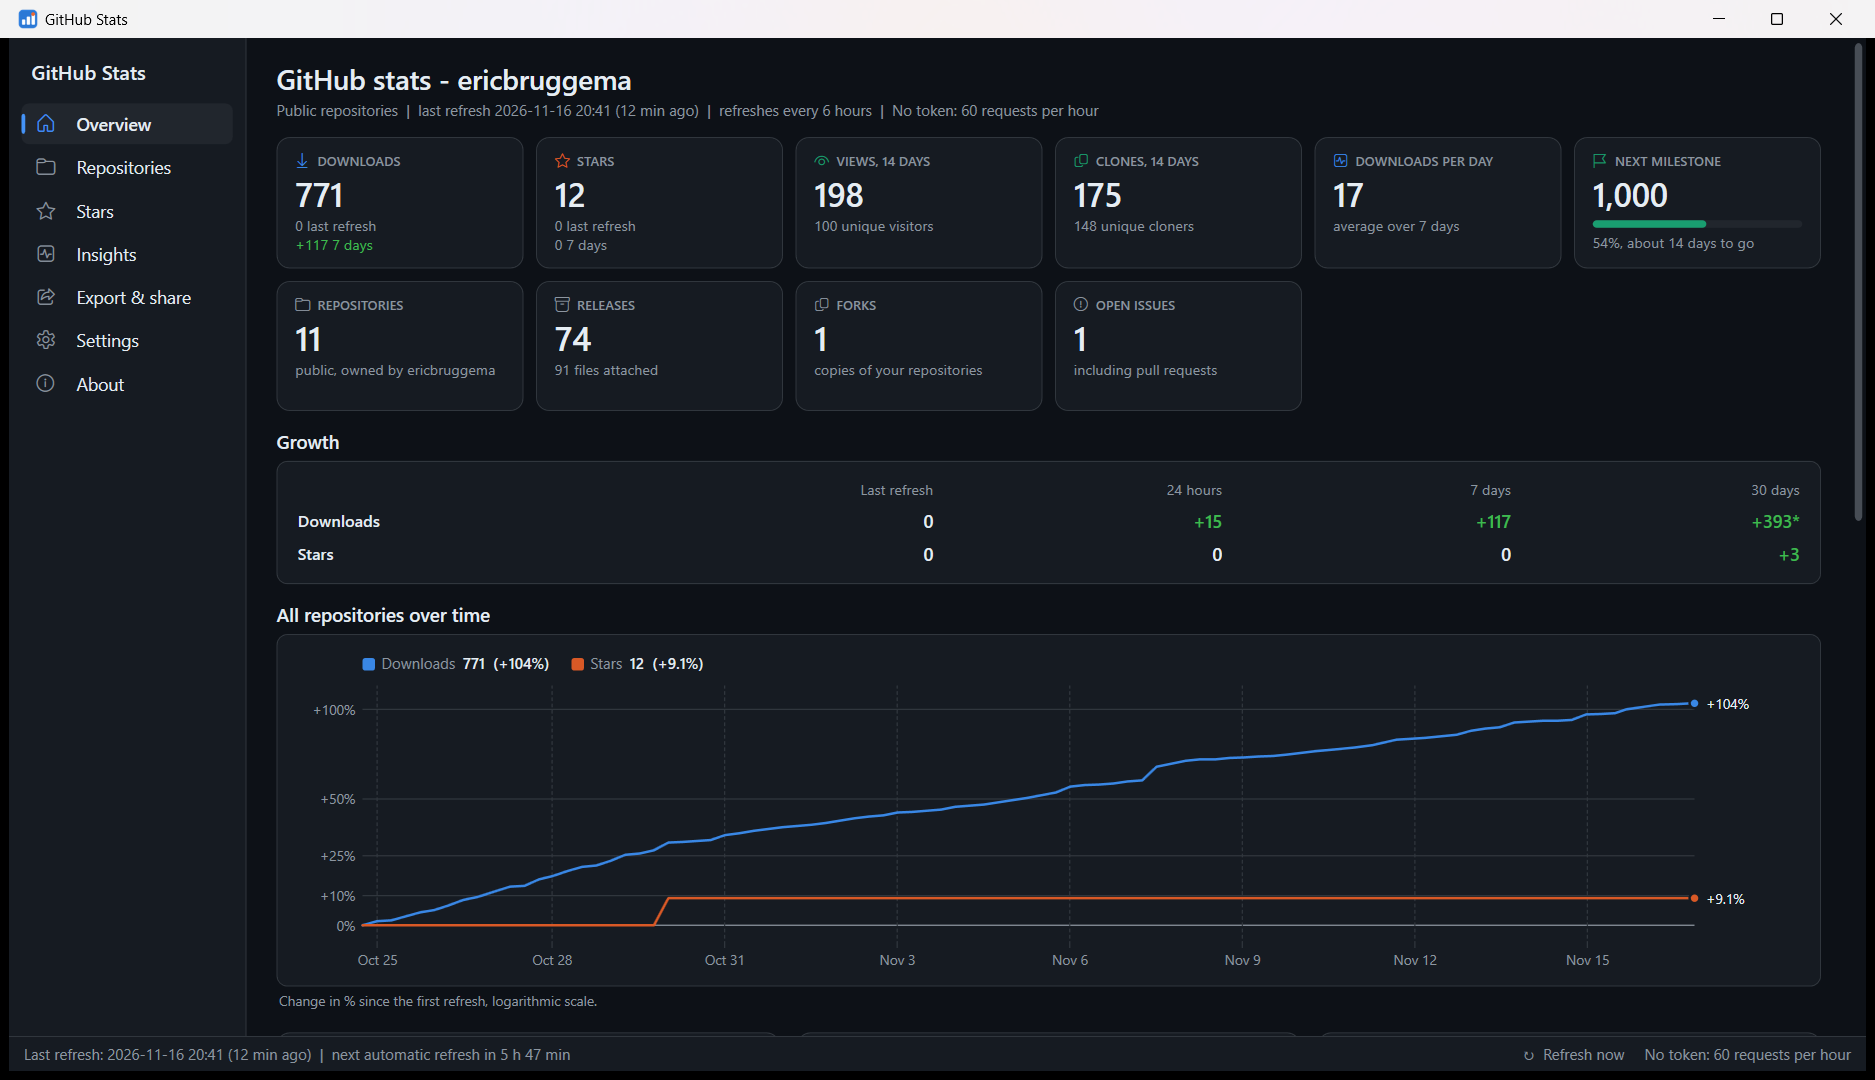
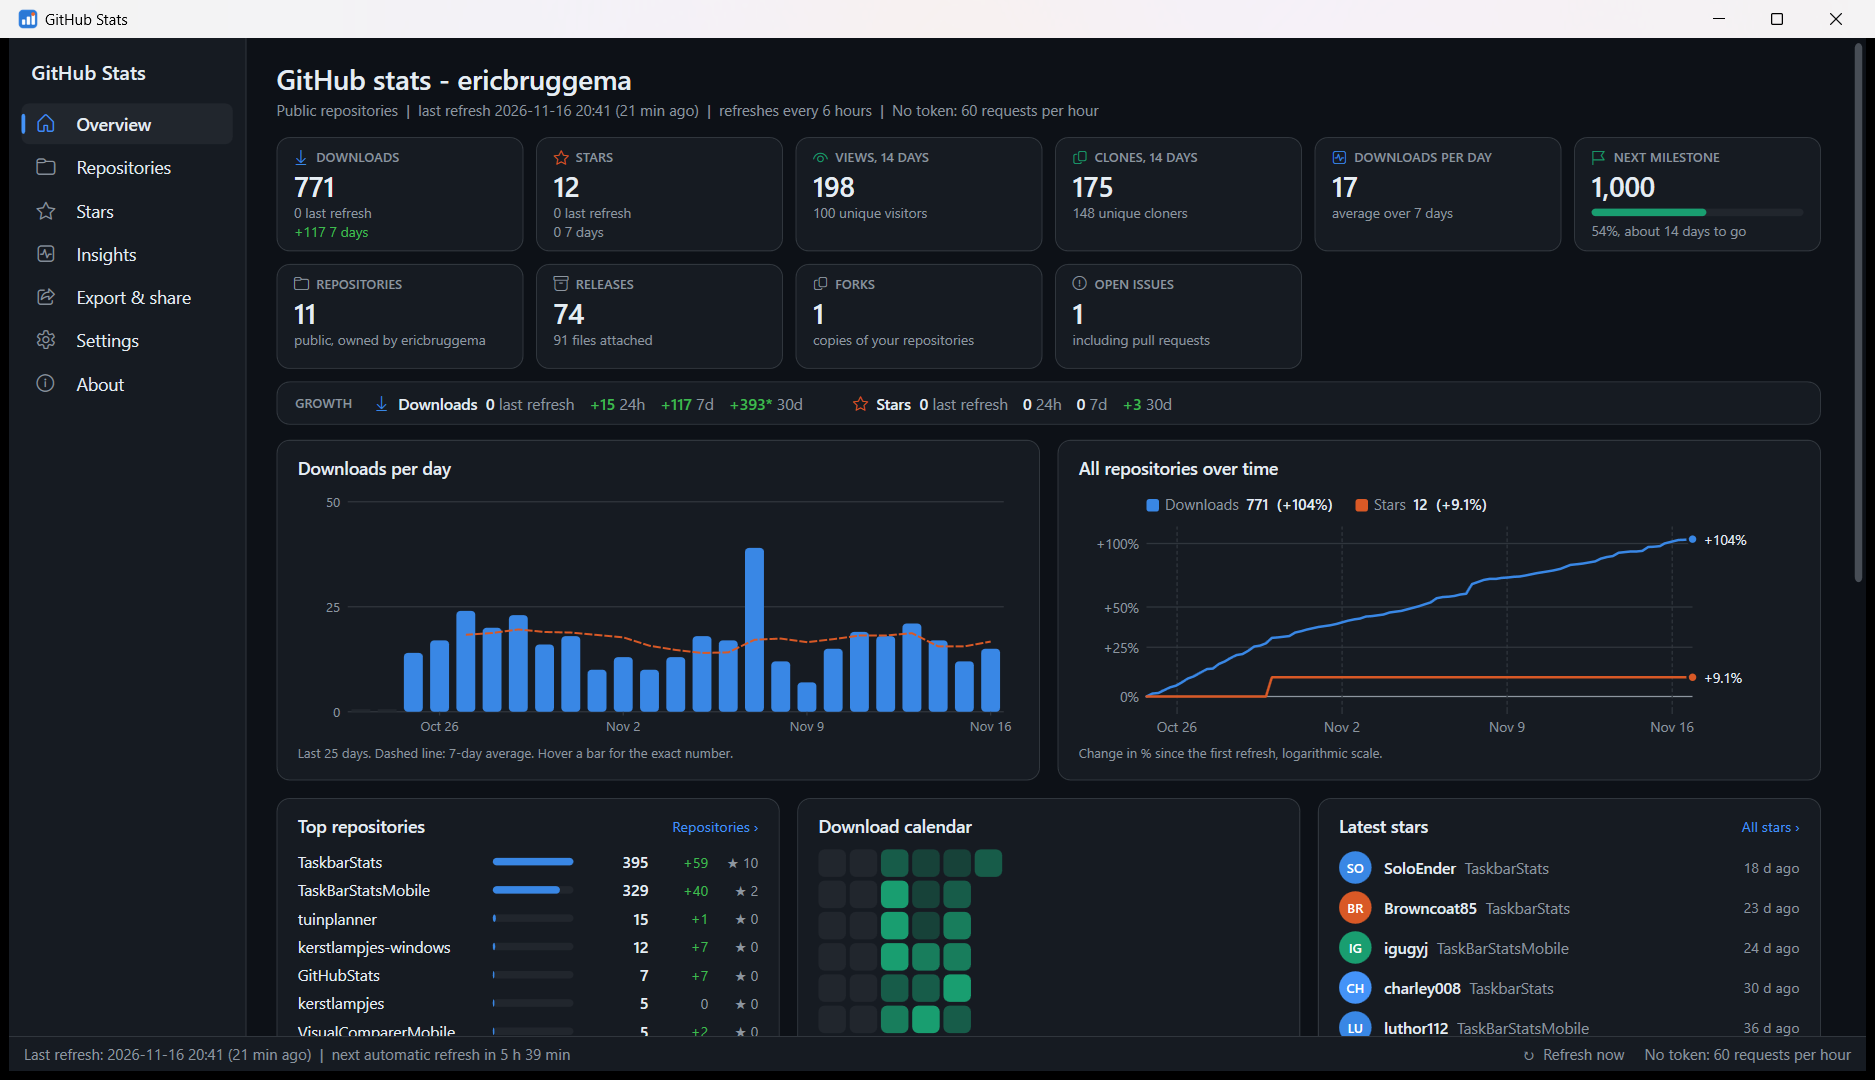
Downloads per day chart, compact overview (2.4.1)
Bar chart of daily downloads with 7-day average, hover values and dates,
next to a smaller cumulative chart; smaller cards; growth as one slim line.
README screenshots refreshed.

diff --git a/UI/OverviewView.cs b/UI/OverviewView.cs
@@ -14,7 +14,8 @@ namespace GitHubStats;
 internal sealed class OverviewView : View
 {
     private readonly StackPanel _root;
-    private readonly ChartControl _chart = new() { Height = 260 };
+    private readonly ChartControl _chart = new() { Height = 200 };
+    private readonly DailyBarChart _daily = new() { Height = 200 };
 
     public OverviewView()
     {
@@ -52,26 +53,26 @@ internal sealed class OverviewView : View
         kpis.Children.Add(Kpi("", "Muted", "Open issues", Fmt.N(db.Totals.OpenIssues), ("including pull requests", 0), null));
         _root.Children.Add(kpis);
 
-        // ---- growth table
-        _root.Children.Add(Ui.Heading("Growth"));
-        _root.Children.Add(Ui.Box(Growth(db), 8, new Thickness(16, 10, 16, 10)));
+        // ---- growth: one slim strip
+        _root.Children.Add(GrowthStrip(db));
 
-        // ---- the big chart
-        _root.Children.Add(Ui.Heading("All repositories over time"));
+        // ---- charts side by side: downloads per day, and the totals over time
+        var snaps = app.Data.Snapshots;
+        double histDays = snaps.Count > 0 ? (Clock.Now() - snaps[0].T) / 86400.0 : 0;
+        int nDays = Math.Max(14, Math.Min(60, (int)Math.Ceiling(histDays) + 1));
+        _daily.SetDays(WidgetStyles.DailyDownloads(nDays), "downloads");
+        if (_daily.Parent is Border od) od.Child = null;
         _chart.SetModel(db.All);
-        if (_chart.Parent is Border old) old.Child = null;
-        _root.Children.Add(Ui.Box(_chart));
-        if (db.All != null)
-        {
-            var cap = Ui.Text(db.All.Caption, 11, "Muted", false, true);
-            cap.Margin = new Thickness(2, 4, 0, 0);
-            _root.Children.Add(cap);
-        }
+        if (_chart.Parent is Border oc) oc.Child = null;
+        var charts = new MasonryPanel { MinColumnWidth = 430, Gap = 14, RowByRow = true, Margin = new Thickness(0, 12, 0, 0) };
+        charts.Children.Add(Panel("Downloads per day", ChartBody(_daily, "Last " + nDays + " days. Dashed line: 7-day average. Hover a bar for the exact number."), null, null));
+        charts.Children.Add(Panel("All repositories over time", ChartBody(_chart, db.All?.Caption ?? ""), null, null));
+        _root.Children.Add(charts);
 
         // ---- detail panels, as many columns as fit
-        var panels = new MasonryPanel { MinColumnWidth = 380, Gap = 14, Margin = new Thickness(0, 18, 0, 0) };
+        var panels = new MasonryPanel { MinColumnWidth = 380, Gap = 14, Margin = new Thickness(0, 14, 0, 0) };
         panels.Children.Add(Panel("Top repositories", TopRepos(db), "Repositories", "repos"));
-        panels.Children.Add(Panel("Downloads per day", Heat(), null, null));
+        panels.Children.Add(Panel("Download calendar", Heat(), null, null));
         panels.Children.Add(Panel("Latest stars", LatestStars(db), "All stars", "stars"));
         panels.Children.Add(Panel("Traffic, last 14 days", TrafficPanel(db), null, null));
         panels.Children.Add(Panel("Latest releases", LatestReleases(), null, null));
@@ -100,16 +101,16 @@ internal sealed class OverviewView : View
         l.FontWeight = FontWeights.SemiBold;
         head.Children.Add(l);
         sp.Children.Add(head);
-        var v = Ui.Text(value, 26, "Text", true);
-        v.Margin = new Thickness(0, 2, 0, 0);
+        var v = Ui.Text(value, 22, "Text", true);
+        v.Margin = new Thickness(0, 1, 0, 0);
         sp.Children.Add(v);
         foreach (var line in new[] { line1, line2 })
         {
             if (line == null) continue;
-            sp.Children.Add(Ui.Text(line.Value.Text, 11.5, line.Value.Sign > 0 ? "Up" : line.Value.Sign < 0 ? "Down" : "Muted", false, true));
+            sp.Children.Add(Ui.Text(line.Value.Text, 11, line.Value.Sign > 0 ? "Up" : line.Value.Sign < 0 ? "Down" : "Muted", false, true));
         }
-        var b = Ui.Box(sp, 10, new Thickness(14, 11, 14, 11));
-        b.MinHeight = 104;
+        var b = Ui.Box(sp, 10, new Thickness(13, 8, 13, 8));
+        b.MinHeight = 84;
         return b;
     }
 
@@ -126,8 +127,8 @@ internal sealed class OverviewView : View
         l.FontWeight = FontWeights.SemiBold;
         head.Children.Add(l);
         sp.Children.Add(head);
-        var v = Ui.Text(next == 0 ? "All reached" : Fmt.N(next), 26, "Text", true);
-        v.Margin = new Thickness(0, 2, 0, 0);
+        var v = Ui.Text(next == 0 ? "All reached" : Fmt.N(next), 22, "Text", true);
+        v.Margin = new Thickness(0, 1, 0, 0);
         sp.Children.Add(v);
         sp.Children.Add(Bar(p, "S2", 6, new Thickness(0, 4, 0, 4)));
         string eta = "";
@@ -136,40 +137,64 @@ internal sealed class OverviewView : View
             double days = (next - total) / pd;
             eta = ", about " + (days < 1.5 ? "a day" : days < 60 ? Math.Round(days) + " days" : Math.Round(days / 30) + " months") + " to go";
         }
-        sp.Children.Add(Ui.Text(next == 0 ? "add more in Settings" : Math.Round(p * 100) + "%" + eta, 11.5, "Muted", false, true));
-        var b = Ui.Box(sp, 10, new Thickness(14, 11, 14, 11));
-        b.MinHeight = 104;
+        sp.Children.Add(Ui.Text(next == 0 ? "add more in Settings" : Math.Round(p * 100) + "%" + eta, 11, "Muted", false, true));
+        var b = Ui.Box(sp, 10, new Thickness(13, 8, 13, 8));
+        b.MinHeight = 84;
         return b;
     }
 
-    private static FrameworkElement Growth(Dashboard db)
+    /// <summary>Growth in one slim line: downloads and stars over the last refresh, 24 hours, 7 and 30 days.</summary>
+    private static FrameworkElement GrowthStrip(Dashboard db)
     {
-        var g = new Grid();
-        g.ColumnDefinitions.Add(new ColumnDefinition { Width = new GridLength(1.2, GridUnitType.Star) });
-        for (int i = 0; i < 4; i++) g.ColumnDefinitions.Add(new ColumnDefinition { Width = new GridLength(1, GridUnitType.Star) });
-        string[] heads = { "", "Last refresh", "24 hours", "7 days", "30 days" };
-        for (int i = 0; i < heads.Length; i++) Cell(g, Ui.Text(heads[i], 11.5, "Muted"), 0, i, i > 0);
-        var rows = new[]
+        var wrap = new WrapPanel();
+        var head = Ui.Text("GROWTH", 10.5, "Muted");
+        head.FontWeight = FontWeights.SemiBold;
+        head.Margin = new Thickness(0, 0, 18, 0);
+        wrap.Children.Add(head);
+        void Group(string glyph, string brush, string name, long? last, WinDelta[] win)
         {
-            ("Downloads", db.DownloadsDelta, db.DownloadsWin),
-            ("Stars", db.StarsDelta, db.StarsWin),
-        };
-        int r = 1;
-        foreach (var (name, last, win) in rows)
-        {
-            Cell(g, Ui.Text(name, 13, "Text", true), r, 0, false);
-            Cell(g, Val(last, false), r, 1, true);
-            for (int k = 0; k < 3; k++) Cell(g, Val(win[k].Value, win[k].Partial), r, 2 + k, true);
-            r++;
+            var g = new StackPanel { Orientation = Orientation.Horizontal, Margin = new Thickness(0, 0, 28, 0) };
+            g.Children.Add(Glyph(glyph, brush, 12));
+            g.Children.Add(Ui.Text("  " + name + "  ", 12.5, "Text", true));
+            void Item(string label, long? v, bool partial)
+            {
+                var t = new TextBlock { FontSize = 12.5, Margin = new Thickness(0, 0, 12, 0), VerticalAlignment = VerticalAlignment.Center };
+                var val = new System.Windows.Documents.Run(v == null ? "-" : Fmt.DeltaText(v.Value) + (partial ? "*" : "")) { FontWeight = FontWeights.SemiBold };
+                val.SetResourceReference(System.Windows.Documents.TextElement.ForegroundProperty, v > 0 ? "Up" : v < 0 ? "Down" : "Text");
+                var lab = new System.Windows.Documents.Run(" " + label);
+                lab.SetResourceReference(System.Windows.Documents.TextElement.ForegroundProperty, "Muted");
+                t.Inlines.Add(val);
+                t.Inlines.Add(lab);
+                if (partial) t.ToolTip = "* Not enough history yet for the whole period: since the first refresh.";
+                g.Children.Add(t);
+            }
+            Item("last refresh", last, false);
+            Item("24h", win[0].Value, win[0].Partial);
+            Item("7d", win[1].Value, win[1].Partial);
+            Item("30d", win[2].Value, win[2].Partial);
+            wrap.Children.Add(g);
         }
-        return g;
+        Group("", "S0", "Downloads", db.DownloadsDelta, db.DownloadsWin);
+        Group("", "S1", "Stars", db.StarsDelta, db.StarsWin);
+        var b = Ui.Box(wrap, 10, new Thickness(14, 8, 14, 8));
+        b.Margin = new Thickness(0, 10, 0, 0);
+        return b;
+    }
 
-        static TextBlock Val(long? v, bool partial)
+    private static FrameworkElement ChartBody(FrameworkElement chart, string caption)
+    {
+        // the chart controls are reused on every update: detach them from the previous page first
+        if (chart.Parent is Panel old) old.Children.Remove(chart);
+        else if (chart.Parent is Border ob) ob.Child = null;
+        var sp = new StackPanel();
+        sp.Children.Add(chart);
+        if (caption.Length > 0)
         {
-            var t = Ui.Text(v == null ? "-" : Fmt.DeltaText(v.Value) + (partial ? "*" : ""), 14, v > 0 ? "Up" : v < 0 ? "Down" : "Text", true);
-            if (partial) t.ToolTip = "* Not enough history yet for the whole period: since the first refresh.";
-            return t;
+            var c = Ui.Text(caption, 10.5, "Muted", false, true);
+            c.Margin = new Thickness(0, 4, 0, 0);
+            sp.Children.Add(c);
         }
+        return sp;
     }
 
     private static void Cell(Grid g, FrameworkElement e, int row, int col, bool right)

diff --git a/UI/DailyBarChart.cs b/UI/DailyBarChart.cs
@@ -1,0 +1,166 @@
+using System;
+using System.Collections.Generic;
+using System.Globalization;
+using System.Linq;
+using System.Windows;
+using System.Windows.Input;
+using System.Windows.Media;
+
+namespace GitHubStats;
+
+/// <summary>
+/// Bars per day (e.g. downloads per day) with a dashed 7-day average line, dates along the bottom and the exact
+/// number on hover. Days without a measurement are drawn as a faint stub.
+/// </summary>
+internal sealed class DailyBarChart : FrameworkElement
+{
+    private List<(DateTime Day, long? Value)> _days = new();
+    private string _unit = "downloads";
+    private int _hover = -1;
+    private const double L = 40, R = 12, T = 10, B = 22;
+
+    public DailyBarChart()
+    {
+        Height = 190;
+        MinWidth = 240;
+        Loaded += (s, e) => Theme.Changed += InvalidateVisual;
+        Unloaded += (s, e) => Theme.Changed -= InvalidateVisual;
+    }
+
+    public void SetDays(List<(DateTime Day, long? Value)> days, string unit)
+    {
+        _days = days;
+        _unit = unit;
+        _hover = -1;
+        InvalidateVisual();
+    }
+
+    protected override Size MeasureOverride(Size availableSize) =>
+        new Size(double.IsInfinity(availableSize.Width) ? 480 : availableSize.Width, Height);
+
+    private FormattedText FT(string s, double size, Brush b, bool bold = false) =>
+        new(s, CultureInfo.CurrentUICulture, FlowDirection.LeftToRight,
+            new Typeface(new FontFamily("Segoe UI"), FontStyles.Normal, bold ? FontWeights.SemiBold : FontWeights.Normal, FontStretches.Normal),
+            size, b, VisualTreeHelper.GetDpi(this).PixelsPerDip);
+
+    private Rect Plot => new(L, T, Math.Max(20, ActualWidth - L - R), Math.Max(20, ActualHeight - T - B));
+
+    protected override void OnRender(DrawingContext dc)
+    {
+        double w = ActualWidth, h = ActualHeight;
+        dc.DrawRectangle(Brushes.Transparent, null, new Rect(0, 0, w, h));
+        Brush text = Theme.B("Text"), muted = Theme.B("Muted"), border = Theme.B("Border"), card = Theme.B("Card");
+        int n = _days.Count;
+        if (n == 0 || _days.All(d => d.Value == null))
+        {
+            var msg = FT("Downloads per day appear after a few refreshes.", 12, muted);
+            dc.DrawText(msg, new Point(Math.Max(0, (w - msg.Width) / 2), h / 2 - 8));
+            return;
+        }
+        var p = Plot;
+        long max = Math.Max(1, _days.Max(d => d.Value ?? 0));
+        long top = NiceTop(max);
+
+        // y grid: 0, half, top
+        var gridPen = new Pen(border, 1);
+        foreach (var f in new[] { 0.0, 0.5, 1.0 })
+        {
+            double y = p.Bottom - f * p.Height;
+            dc.DrawLine(gridPen, new Point(p.Left, y), new Point(p.Right, y));
+            var lb = FT(Fmt.N((long)Math.Round(top * f)), 10.5, muted);
+            dc.DrawText(lb, new Point(p.Left - 6 - lb.Width, y - lb.Height / 2));
+        }
+
+        // bars
+        double slot = p.Width / n, bw = Math.Max(1, Math.Min(22, slot * 0.72));
+        var bar = Theme.B("S0");
+        var hoverBar = Theme.B("Link");
+        var stub = Theme.B("Accent");
+        for (int i = 0; i < n; i++)
+        {
+            double cx = p.Left + slot * (i + 0.5);
+            var v = _days[i].Value;
+            if (v == null) { dc.DrawRectangle(stub, null, new Rect(cx - bw / 2, p.Bottom - 2, bw, 2)); continue; }
+            double bh = Math.Max(v > 0 ? 2 : 0, (double)v.Value / top * p.Height);
+            dc.DrawRoundedRectangle(i == _hover ? hoverBar : bar, null, new Rect(cx - bw / 2, p.Bottom - bh, bw, bh), Math.Min(3, bw / 3), Math.Min(3, bw / 3));
+        }
+
+        // 7-day average line
+        var avgPen = new Pen(Theme.B("S1"), 1.6) { DashStyle = new DashStyle(new double[] { 3, 2 }, 0), LineJoin = PenLineJoin.Round };
+        var geo = new StreamGeometry();
+        using (var c = geo.Open())
+        {
+            bool started = false;
+            for (int i = 0; i < n; i++)
+            {
+                var win = _days.Skip(Math.Max(0, i - 6)).Take(Math.Min(7, i + 1)).Where(d => d.Value != null).Select(d => d.Value!.Value).ToList();
+                if (win.Count < 3) { started = false; continue; }
+                var pt = new Point(p.Left + slot * (i + 0.5), p.Bottom - win.Average() / top * p.Height);
+                if (!started) { c.BeginFigure(pt, false, false); started = true; } else c.LineTo(pt, true, true);
+            }
+        }
+        geo.Freeze();
+        dc.DrawGeometry(null, avgPen, geo);
+
+        // dates: every 1, 2, 7 or 14 days, whatever leaves about 70 px per label (weeks start on Monday)
+        int step = new[] { 1, 2, 7, 14, 28 }.First(s => p.Width / n * s >= 70 || s == 28);
+        double lastRight = double.MinValue;
+        for (int i = 0; i < n; i++)
+        {
+            var day = _days[i].Day;
+            bool tick = step >= 7 ? day.DayOfWeek == DayOfWeek.Monday && ((n - 1 - i) / 7) % (step / 7) == 0 : (n - 1 - i) % step == 0;
+            if (!tick) continue;
+            double cx = p.Left + slot * (i + 0.5);
+            var ft = FT(day.ToString("MMM d", CultureInfo.InvariantCulture), 10.5, muted);
+            double lx = Math.Max(0, Math.Min(w - ft.Width, cx - ft.Width / 2));
+            if (lx < lastRight + 8) continue;
+            dc.DrawLine(gridPen, new Point(cx, p.Bottom), new Point(cx, p.Bottom + 3));
+            dc.DrawText(ft, new Point(lx, p.Bottom + 4));
+            lastRight = lx + ft.Width;
+        }
+
+        // hover box
+        if (_hover >= 0 && _hover < n)
+        {
+            var (day, v) = _days[_hover];
+            var win = _days.Skip(Math.Max(0, _hover - 6)).Take(Math.Min(7, _hover + 1)).Where(d => d.Value != null).Select(d => d.Value!.Value).ToList();
+            var l1 = FT(day.ToString("dddd d MMM yyyy", CultureInfo.InvariantCulture), 11.5, muted);
+            var l2 = FT(v == null ? "no measurement" : Fmt.N(v.Value) + " " + _unit, 13, text, true);
+            var l3 = FT(win.Count >= 3 ? "7-day average " + win.Average().ToString("0.#", CultureInfo.CurrentCulture) : "", 11, muted);
+            double bwid = Math.Max(l1.Width, Math.Max(l2.Width, l3.Width)) + 20, bhgt = 12 + l1.Height + l2.Height + (l3.Text.Length > 0 ? l3.Height : 0);
+            double cx = p.Left + slot * (_hover + 0.5);
+            double bx = cx + 12 + bwid > w ? cx - 12 - bwid : cx + 12;
+            dc.DrawRoundedRectangle(card, new Pen(border, 1), new Rect(Math.Max(2, bx), T, bwid, bhgt), 6, 6);
+            double ty = T + 6;
+            dc.DrawText(l1, new Point(Math.Max(2, bx) + 10, ty)); ty += l1.Height;
+            dc.DrawText(l2, new Point(Math.Max(2, bx) + 10, ty)); ty += l2.Height;
+            if (l3.Text.Length > 0) dc.DrawText(l3, new Point(Math.Max(2, bx) + 10, ty));
+        }
+    }
+
+    /// <summary>A round number just above <paramref name="max"/> for the top of the y axis.</summary>
+    private static long NiceTop(long max)
+    {
+        double mag = Math.Pow(10, Math.Floor(Math.Log10(max)));
+        foreach (var m in new[] { 1, 2, 2.5, 5, 10 })
+            if (m * mag >= max) return (long)Math.Max(2, m * mag);
+        return max;
+    }
+
+    protected override void OnMouseMove(MouseEventArgs e)
+    {
+        base.OnMouseMove(e);
+        int n = _days.Count;
+        if (n == 0) return;
+        var p = Plot;
+        double x = e.GetPosition(this).X;
+        int idx = x < p.Left || x > p.Right ? -1 : Math.Min(n - 1, (int)((x - p.Left) / (p.Width / n)));
+        if (idx != _hover) { _hover = idx; InvalidateVisual(); }
+    }
+
+    protected override void OnMouseLeave(MouseEventArgs e)
+    {
+        base.OnMouseLeave(e);
+        if (_hover != -1) { _hover = -1; InvalidateVisual(); }
+    }
+}

diff --git a/docs/USER-GUIDE.md b/docs/USER-GUIDE.md
@@ -40,10 +40,11 @@ Everything on one page:
 
 - **Cards**: downloads, stars, views and clones (14 days, with unique visitors and cloners), downloads per day,
   next milestone with a progress bar, repositories, releases, forks and open issues.
-- **Growth**: downloads and stars since the last refresh, in 24 hours, 7 days and 30 days (`*` = not enough history
-  yet for the whole period).
-- **All repositories over time**: one chart with dates along the bottom. **Hover over a chart** to see the exact
-  numbers for that moment.
+- **Growth**: one line with downloads and stars since the last refresh, in 24 hours, 7 days and 30 days
+  (`*` = not enough history yet for the whole period).
+- **Downloads per day**: a bar per day with a dashed 7-day average. Hover a bar for the exact number.
+- **All repositories over time**: the running totals, with dates along the bottom. **Hover over a chart** to see the
+  exact numbers for that moment.
 - **Panels**: top repositories, downloads per day (heatmap), latest stars, traffic (most viewed, referrers), latest
   releases, most downloaded files, platforms and highlights. They fill as many columns as the window is wide; click a
   row to open it on GitHub.

diff --git a/CHANGELOG.md b/CHANGELOG.md
@@ -1,5 +1,13 @@
 # Changelog
 
+## 2.4.1 (2026-11-16)
+
+### Changed
+- **Downloads per day** chart on the Overview: one bar per day with a dashed 7-day average line, dates along the bottom
+  and the exact number on hover. It sits next to a smaller "All repositories over time" chart.
+- More on the first screen: smaller cards and growth in one slim line (last refresh, 24h, 7d and 30d for downloads
+  and stars) instead of a large table.
+
 ## 2.4.0 (2026-11-16)
 
 ### New
